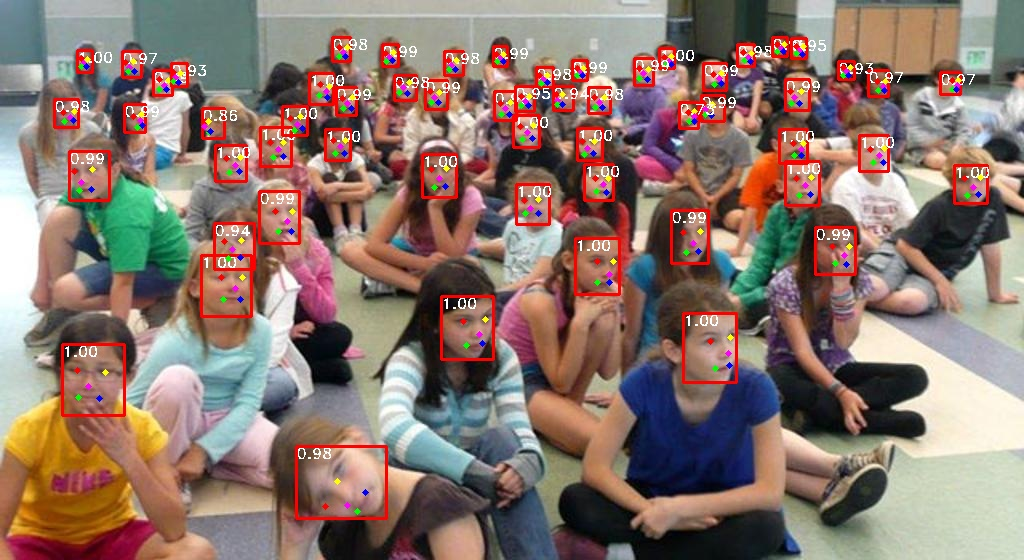
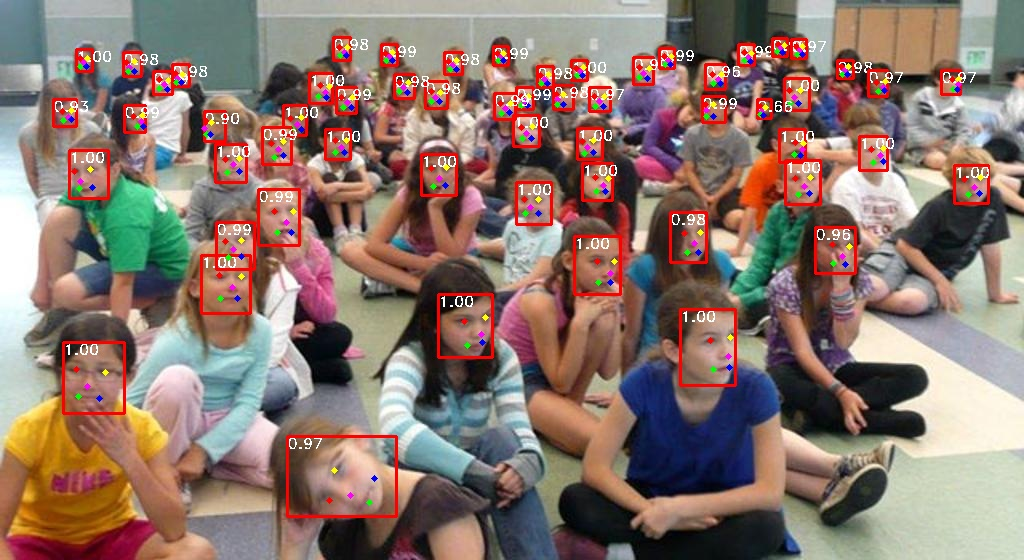
add debug model

diff --git a/debug_model.py b/debug_model.py
@@ -1,0 +1,131 @@
+import torch
+import torchvision.models as tvmodels
+from torchsummary import summary
+import torchvision.models._utils as _utils
+from models.common import SSH, FPN, IntermediateLayerGetterByIndex
+import torch.nn as nn
+from collections import OrderedDict
+
+class IntermediateLayerGetterNested(nn.Module):
+    def __init__(self, model, return_layers):
+        """
+        Args:
+            model (nn.Module): the original model
+            return_layers (dict): a dict mapping from dotted layer path to user-defined names, 
+                                  e.g. {"stage0.conv01": "out1"}
+        """
+        super().__init__()
+        self.model = model
+        self.return_layers = return_layers
+        self.layer_paths = list(return_layers.keys())
+
+    def _get_from_path(self, model, path):
+        for part in path.split('.'):
+            model = getattr(model, part)
+        return model
+
+    def forward(self, x):
+        outputs = OrderedDict()
+        modules = {'' : self.model}
+        activations = {'' : x}
+
+        # Run forward manually to capture nested layers
+        def hook_fn(name):
+            def hook(module, input, output):
+                outputs[self.return_layers[name]] = output
+            return hook
+
+        hooks = []
+        for layer_path, alias in self.return_layers.items():
+            module = self._get_from_path(self.model, layer_path)
+            hooks.append(module.register_forward_hook(hook_fn(layer_path)))
+
+        _ = self.model(x)  # Run full forward once
+
+        # Remove all hooks
+        for h in hooks:
+            h.remove()
+
+        return outputs
+    
+from models.backbones import (
+    mobilenet_v1_025,
+    mobilenet_v1_050,
+    mobilenet_v1,
+    mobilenet_v2,
+    resnet18,
+    resnet34,
+    resnet50
+)
+
+def print_layer_info(model, input_size=(3, 224, 224)):
+    """Print detailed layer information"""
+    x = torch.randn(1, *input_size)
+    model.eval()
+    
+    def hook_fn(module, input, output):
+        print(f"{module.__class__.__name__}: {list(output.shape)}")
+    
+    # Register hooks
+    hooks = []
+    for module in model.modules():
+        if len(list(module.children())) == 0:  # Only leaf modules
+            hooks.append(module.register_forward_hook(hook_fn))
+    
+    # Forward pass
+    with torch.no_grad():
+        _ = model(x)
+    
+    # Remove hooks
+    for hook in hooks:
+        hook.remove()
+
+if __name__ == "__main__":
+  # Method 1: Load ConvNeXt-Tiny model
+  print("Loading ResNet34 model...")
+  model = tvmodels.convnext_tiny(pretrained=True)  # or weights=models.ConvNeXt_Tiny_Weights.DEFAULT for newer versions
+
+  # model = resnet34(pretrained=True)
+
+  # Print basic model information
+  print(f"Model type: {type(model).__name__}")
+  print(f"Number of parameters: {sum(p.numel() for p in model.parameters()):,}")
+  print(f"Number of trainable parameters: {sum(p.numel() for p in model.parameters() if p.requires_grad):,}")
+
+  print("\n" + "="*50)
+  print("METHOD 1: Print model architecture")
+  print("="*50)
+  print(model)
+
+#   print("\n" + "="*50)
+#   print("METHOD 2: Print named modules")
+#   print("="*50)
+#   for name, module in model.named_modules():
+#       if len(list(module.children())) == 0:  # Only leaf modules
+#           print(f"{name}: {module}")
+
+#   print("\n" + "="*50)
+#   print("METHOD 3: Print layer names and shapes")
+#   print("="*50)
+#   print_layer_info(model)
+
+  print("="*50)
+  # yy = _utils.IntermediateLayerGetter(model, {'features': 1, 'features.5': 2, 'features.7': 3})
+  # yy = _utils.IntermediateLayerGetter(model, {'layer2': 1, 'layer3': 2, 'layer4': 3})
+  # yy = IntermediateLayerGetterByIndex(model, {})
+  # out = yy(torch.rand(1, 3, 224, 224)) 
+
+  getter = IntermediateLayerGetterNested(
+    model,
+    return_layers={
+        "features.3": 1,
+        "features.5": 2,
+        "features.7": 3
+    }
+  )
+
+  output = getter(torch.rand(1, 3, 224, 224))
+
+  print([(k, v.shape) for k, v in output.items()]) 
+  print(output.keys())
+#   print(out)

diff --git a/train.py b/train.py
@@ -13,8 +13,6 @@ from layers import PriorBox, MultiBoxLoss
 from utils.dataset import WiderFaceDetection
 from utils.transform import Augmentation
 
-from tqdm import tqdm
-
 def parse_args():
     import argparse
 
@@ -182,8 +180,6 @@ def main(params):
 
     print("Training started!")
     for epoch in range(start_epoch, cfg['epochs']):
-        print(epoch)
-
         train_one_epoch(
             model,
             criterion,
@@ -205,14 +201,12 @@ def main(params):
         lr_scheduler.step()
 
         time_delta = int(time.time() - tic)
-
-        print(time_delta)
-    
         total_time_elapsed.append(time_delta)
 
-        print("previous running time : " + str(epoch_training_time[epoch]))
+        curr_train_time = time_delta - total_time_elapsed[epoch]
+        print("this epoch's running time : " + str(curr_train_time))
 
-        epoch_training_time.append(time_delta - total_time_elapsed[epoch])
+        epoch_training_time.append(curr_train_time)
 
         torch.save(ckpt, f'{params.save_dir}/{params.network}_checkpoint.ckpt')
         torch.save(model.state_dict(), f'{params.save_dir}/{params.network}_last.pth')
